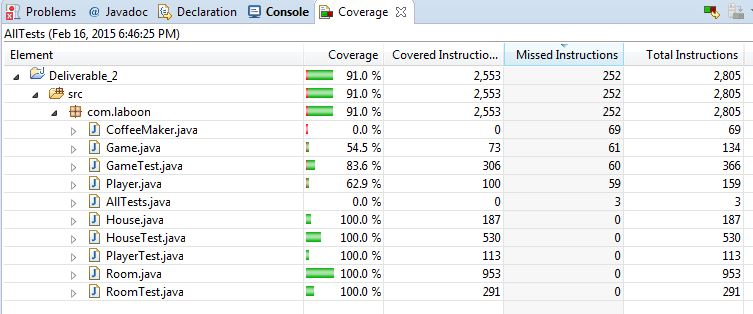
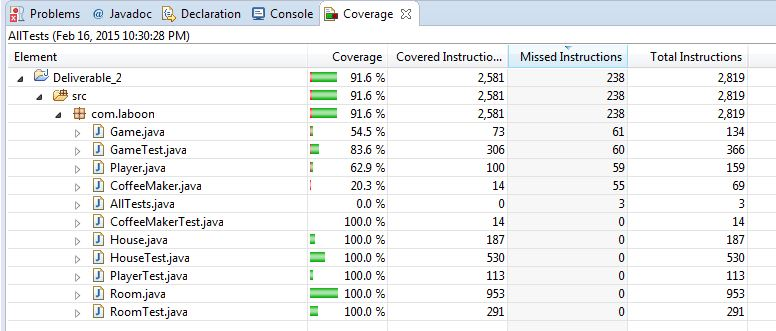
add CoffeeMakerTest

Changed region(s): [[0.0, 0.0, 1.0, 1.0], [0.9774, 0.1146, 1.0, 0.1433]]

diff --git a/src/com/laboon/CoffeeMakerTest.java b/src/com/laboon/CoffeeMakerTest.java
@@ -1,0 +1,16 @@
+package com.laboon;
+
+import static org.junit.Assert.*;
+
+import org.junit.Test;
+
+public class CoffeeMakerTest {
+
+	//Tests that runArgs() returns 0 when any argument is passed
+	@Test
+	public void testAnyArg() {
+		CoffeeMaker cm= new CoffeeMaker();
+		assertEquals(0, cm.runArgs("anything"));
+	}
+
+}

diff --git a/src/com/laboon/AllTests.java b/src/com/laboon/AllTests.java
@@ -6,7 +6,7 @@ import org.junit.runners.Suite.SuiteClasses;
 
 @RunWith(Suite.class)
 @SuiteClasses({ GameTest.class, HouseTest.class, PlayerTest.class,
-		RoomTest.class })
+		RoomTest.class, CoffeeMakerTest.class })
 public class AllTests {
 
 }
